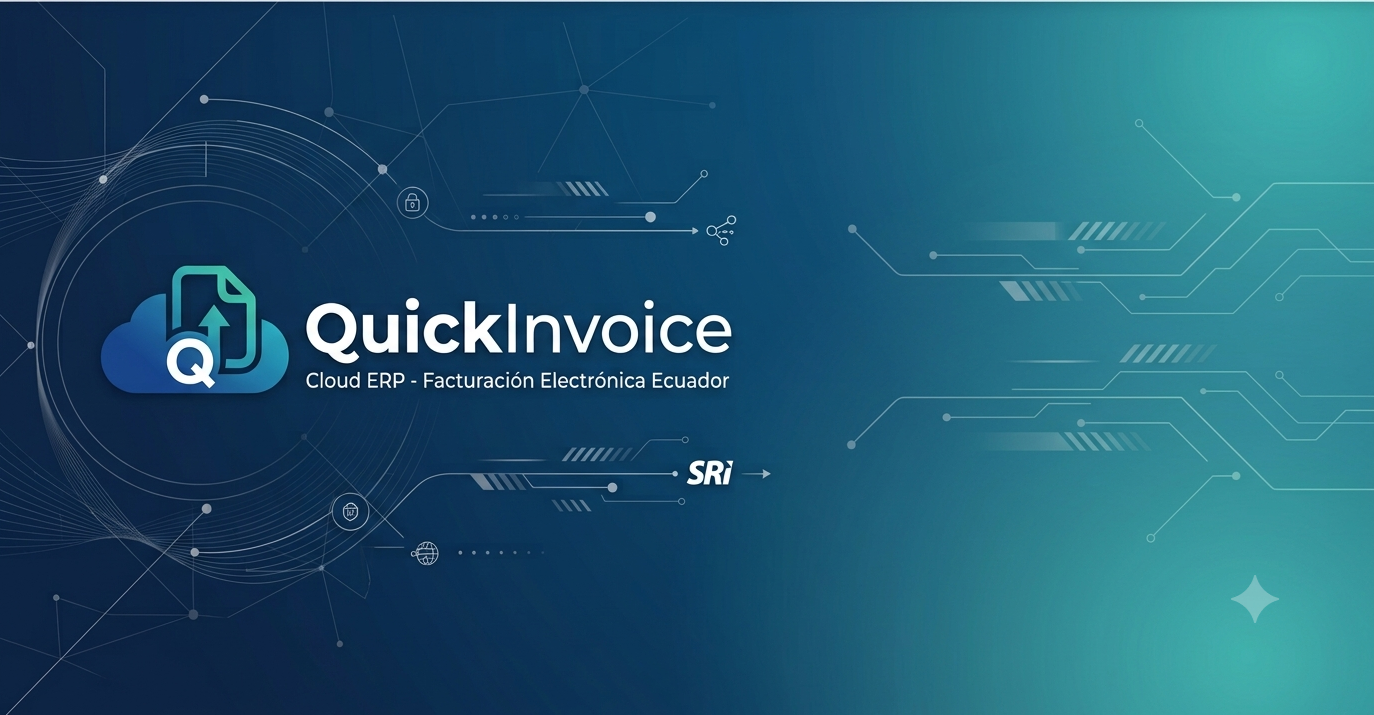
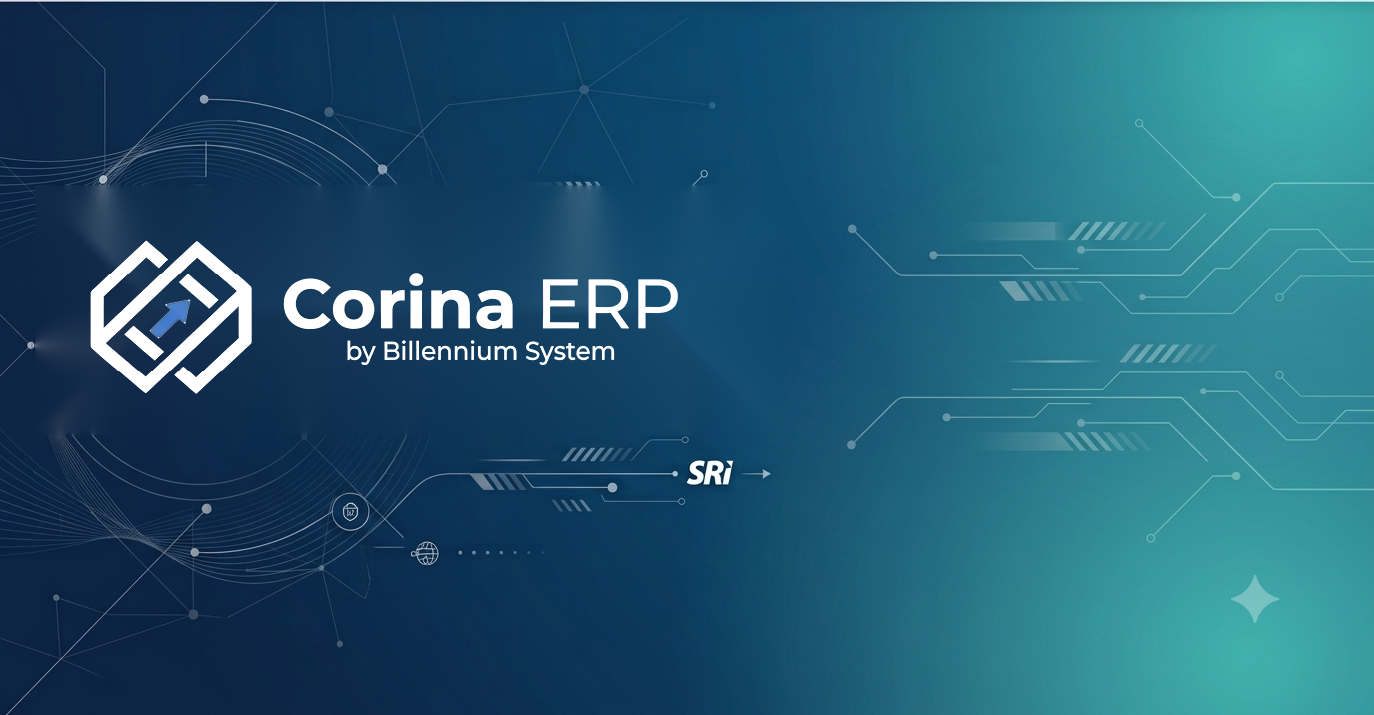
feat(erp): rebrand de QuickInvoice a Corina ERP en etiquetas visibles
- home-banner.png: logo nuevo (blanco + flecha azul), sin recuadro
  blanco, compuesto sobre el mismo fondo tecnologico del banner
- sidebar, titulo de pestana y pie del login actualizados

Changed region(s): [[0.0306, 0.2462, 0.5502, 0.5538], [0.2751, 0.2769, 0.3057, 0.3077], [0.0306, 0.5538, 0.0611, 0.5846]]

diff --git a/App/Proyecto QuickInvoice/src/components/Layout.tsx b/App/Proyecto QuickInvoice/src/components/Layout.tsx
@@ -247,7 +247,7 @@ export function Layout({ children }: { children: React.ReactNode }) {
                         </div>
                         {isSidebarOpen && (
                             <span className="text-xl font-bold bg-gradient-to-r from-primary-600 to-primary-800 bg-clip-text text-transparent">
-                                QuickInvoice
+                                Corina ERP
                             </span>
                         )}
                     </div>

diff --git a/App/Proyecto QuickInvoice/src/pages/LoginPage.tsx b/App/Proyecto QuickInvoice/src/pages/LoginPage.tsx
@@ -124,7 +124,7 @@ export function LoginPage() {
                 </form>
 
                 <p className="mt-8 text-center text-[10px] text-slate-300">
-                    © 2026 QuickInvoice — Sistema de Facturación Electrónica
+                    © 2026 Corina ERP — Sistema de Facturación Electrónica
                 </p>
             </div>
         </div>

diff --git a/App/Proyecto QuickInvoice/index.html b/App/Proyecto QuickInvoice/index.html
@@ -5,7 +5,7 @@
     <meta name="google" content="notranslate">
     <link rel="icon" type="image/svg+xml" href="/vite.svg" />
     <meta name="viewport" content="width=device-width, initial-scale=1.0" />
-    <title>QuickInvoice - Facturación Electrónica</title>
+    <title>Corina ERP - Facturación Electrónica</title>
   </head>
   <body>
     <div id="root"></div>
